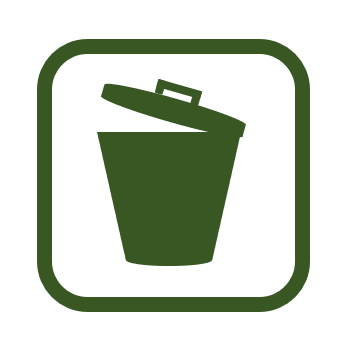
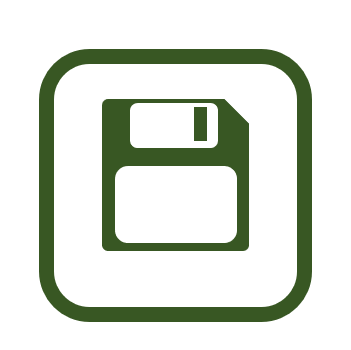
added save button, referenced last loaded files
1. can now save to original files

Changed region(s): [[0.0857, 0.1143, 0.9143, 0.9429], [0.2571, 0.2286, 0.7143, 0.7714]]

diff --git a/appgui.py b/appgui.py
@@ -13,14 +13,23 @@ im_size = (24, 24)
 ADD_ICON = r"icons\add.png"
 EDIT_ICON = r"icons\edit.png"
 COMPLETE_ICON = r"icons\done.png"
+SAVE_ICON = r"icons\save.png"
 config_path = m.get_config()
 default_dict = m.get_defaults()
+loaded_dict = m.get_last_loaded_files()
 temp_path = m.check_temp()
 
 # default filepaths are in default_dict
 FILE_TODAY = default_dict["today"]
 FILE_REP = default_dict["repeat"]
 FILE_GEN = default_dict["general"]
+
+# loaded files
+for key, value in loaded_dict.items():
+    if value is None:
+        loaded_dict[key] = default_dict[key]
+
+last_saved = None
 
 # Getting modification dates as datetime objects for daily and repeating tasks
 mod_date = []
@@ -67,6 +76,8 @@ edit_button = gui.Button(
     key="Edit", image_source=EDIT_ICON, size=1, tooltip=" Edit task ")
 complete_button = gui.Button(
     key="Complete", image_source=COMPLETE_ICON, size=1, tooltip=" Complete task ")
+save_button = gui.Button(
+    key="Save", image_source=SAVE_ICON, size=1, tooltip=" Save to profile ")
 exit_button = gui.Button("Exit")
 
 # Layout takes a list of lists that contain the elements we want to place in the window.
@@ -81,7 +92,8 @@ layout = [[gui.Menu(menu_def, font=font)],
           [gui.TabGroup([[gui.Tab("Today", tab_today, key="tab1")],
                          [gui.Tab("Repeating", tab_repeating, key="tab2")],
                          [gui.Tab("General", tab_general, key="tab3")]], key="tabs", enable_events=True),
-           gui.Column([[add_button], [edit_button], [complete_button]])],
+           gui.Column([[add_button], [edit_button], [complete_button],
+                       [gui.T("", size=[1, 3])], [save_button]])],
           [exit_button]]
 
 # places widgets on a window object
@@ -107,8 +119,10 @@ while True:
                         "Loading Aborted: File format is not supported", font=font)
                     continue
                 if fname != "":
+                    fname = os.path.normpath(fname)
                     if event == "Today's Tasks":
                         # copies loaded profile to a temporary file
+                        loaded_dict["today"] = fname
                         FILE_TODAY = temp_path + "//" + \
                             os.path.basename(FILE_TODAY)
                         copy(fname, FILE_TODAY)
@@ -117,6 +131,7 @@ while True:
                             values=task_list)
                         filename = FILE_TODAY
                     elif event == "Repeating Tasks":
+                        loaded_dict["repeat"] = fname
                         FILE_REP = temp_path + "//" + \
                             os.path.basename(FILE_REP)
                         copy(fname, FILE_REP)
@@ -125,6 +140,7 @@ while True:
                             values=task_list)
                         filename = FILE_REP
                     else:
+                        loaded_dict["general"] = fname
                         FILE_GEN = temp_path + "//" + \
                             os.path.basename(FILE_GEN)
                         copy(fname, FILE_GEN)
@@ -132,21 +148,34 @@ while True:
                         window["task_list_gen"].update(
                             values=task_list)
                         filename = FILE_GEN
+                    m.write_to_config([default_dict, loaded_dict])
 
         case "tabs":
             # reloads the task_list and filename variable everytime you switch tabs
             if values["tabs"] == "tab1":
                 filename = FILE_TODAY
+                loaded_key = "today"
                 value_task = "task_today"
                 value_tasklist = "task_list_today"
+                if FILE_TODAY == last_saved:
+                    task_list = m.load_from_file(filename)
+                    window[f"{value_tasklist}"].update(values=task_list)
             elif values["tabs"] == "tab2":
                 filename = FILE_REP
+                loaded_key = "repeat"
                 value_task = "task_rep"
                 value_tasklist = "task_list_rep"
+                if FILE_REP == last_saved:
+                    task_list = m.load_from_file(filename)
+                    window[f"{value_tasklist}"].update(values=task_list)
             else:
                 filename = FILE_GEN
+                loaded_key = "general"
                 value_task = "task_gen"
                 value_tasklist = "task_list_gen"
+                if FILE_GEN == last_saved:
+                    task_list = m.load_from_file(filename)
+                    window[f"{value_tasklist}"].update(values=task_list)
             task_list = m.load_from_file(filename)
 
         case "Add":
@@ -205,6 +234,13 @@ while True:
                 task_list, values[f"{value_tasklist}"][0], filepath=filename)
             window[f"{value_tasklist}"].update(values=task_list)
             window[f"{value_task}"].update(value="")
+
+        case "Save":
+            save_popup = gui.popup_ok_cancel(
+                "This will overwrite the original file")
+            if save_popup == "OK":
+                m.write_to_file(task_list, loaded_dict[loaded_key])
+                last_saved = loaded_dict[loaded_key]
 
         case "Exit":
             break

diff --git a/methods.py b/methods.py
@@ -16,7 +16,7 @@ def create_config(app_dir=APP_DIR, config_path=CONFIG_PATH):
 
     last_loaded = {
         "today": None,
-        "repeath": None,
+        "repeat": None,
         "general": None}
 
     # write file
@@ -42,7 +42,7 @@ def create_defaults(defaults):
 
 
 def get_defaults(app_dir=APP_DIR, config_path=CONFIG_PATH):
-    """ This method returns the path to the default profiles """
+    """ This method returns the path to the default profiles. """
     # Load the JSON data from the file
     with open(config_path, 'r') as file:
         data = json.load(file)
@@ -52,10 +52,24 @@ def get_defaults(app_dir=APP_DIR, config_path=CONFIG_PATH):
 
 
 def check_temp(config_path=CONFIG_PATH):
+    """ This method creates the Temp directory if it does not exist. """
     temp_path = os.path.dirname(config_path) + "//Temp"
     if not os.path.exists(temp_path):
         os.makedirs(temp_path)
     return temp_path
+
+
+def get_last_loaded_files(config_path=CONFIG_PATH):
+    """ This method gets the last_loaded dict from config_path. """
+    with open(config_path, 'r') as file:
+        data = json.load(file)
+    return data[1]
+
+
+def write_to_config(data, config_path=CONFIG_PATH):
+    """ This method updates the config file. """
+    with open(config_path, "w") as outfile:
+        json.dump(data, outfile)
 
 
 def load_from_file(filepath):
